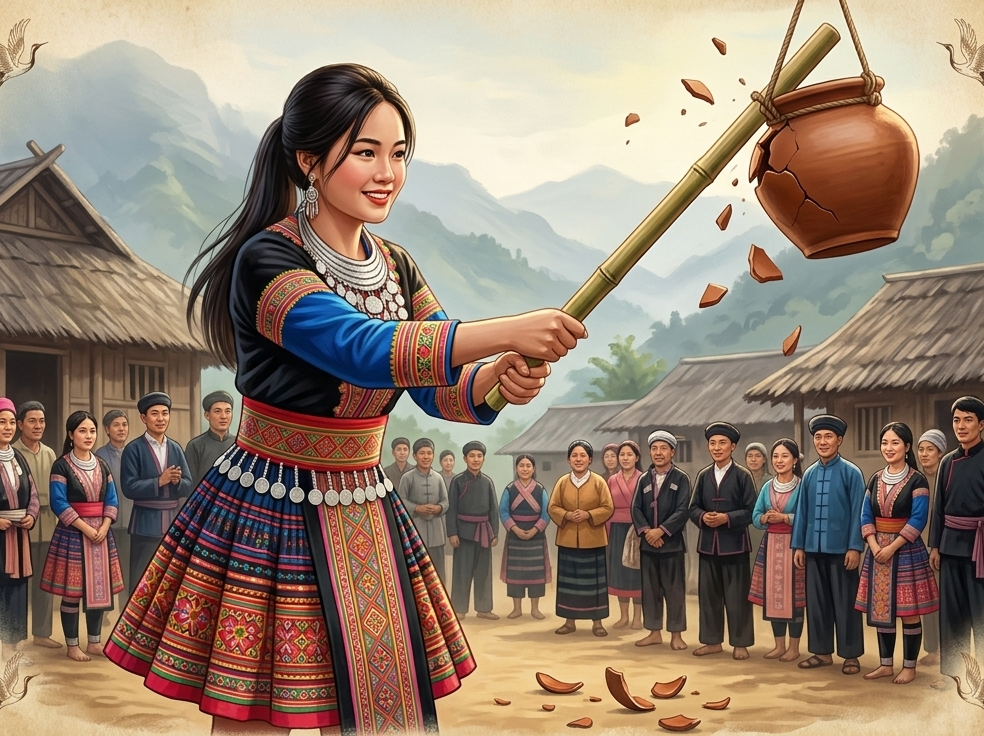
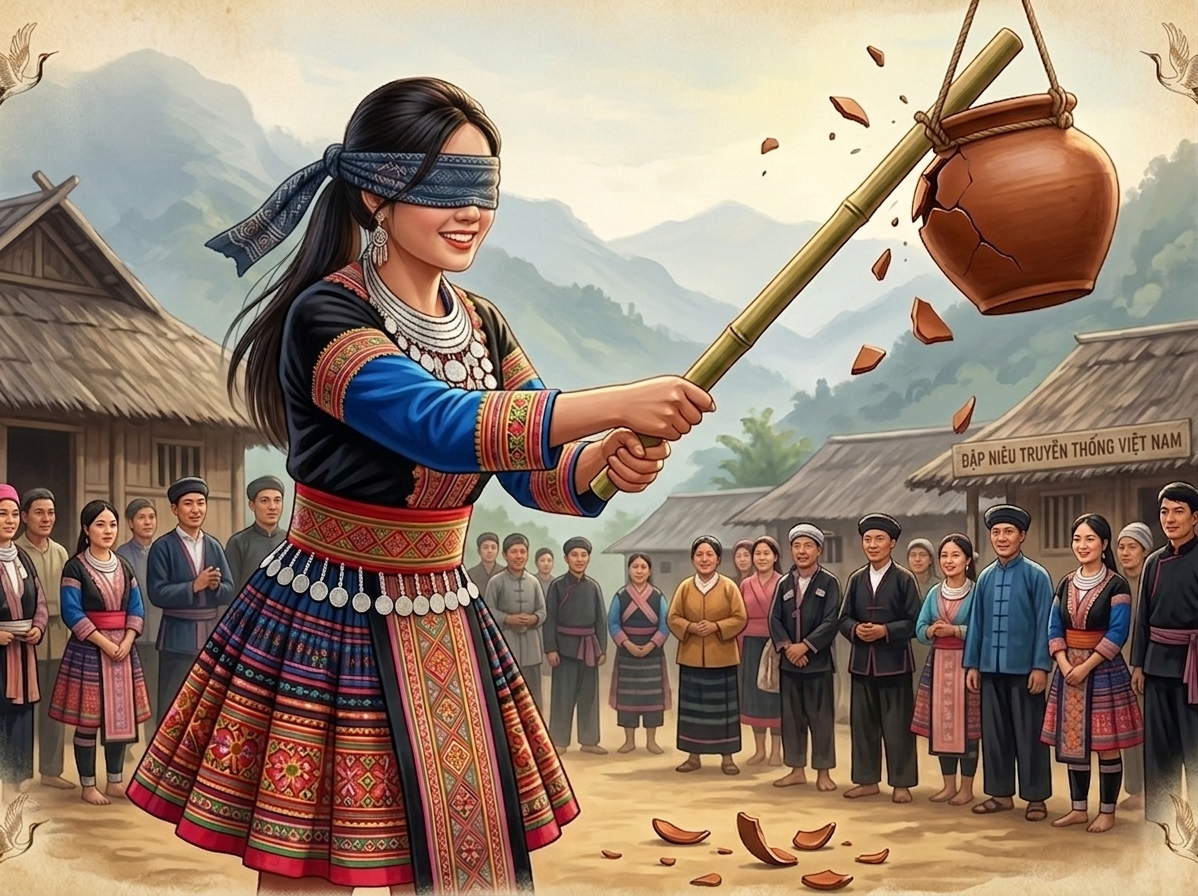
update review and images

diff --git a/index.html b/index.html
@@ -292,9 +292,9 @@
             <div class="container">
                 <div class="section-head reveal">
                     <span class="eyebrow">Cảm nhận</span>
-                    <h2 class="section-title">Người yêu mến nói gì về chúng tôi</h2>
+                    <h2 class="section-title">Ký ức và cảm nhận về trò chơi dân gian</h2>
                     <p class="section-subtitle">
-                        Những chia sẻ chân thành từ cộng đồng yêu văn hóa truyền thống Việt Nam.
+                        Tiếng sạp, tiếng cười sân đình hay giây phút thả còn — mỗi người một kỷ niệm gắn với trò chơi làng quê.
                     </p>
                 </div>
 
@@ -303,8 +303,8 @@
                     <div class="review-card reveal">
                         <div class="review-stars">★★★★★</div>
                         <p class="review-quote">
-                            "Một trang web đẹp, mộc mạc mà tinh tế. Tôi như được sống lại
-                            tuổi thơ ở làng quê khi nhìn từng tấm hình, đọc từng dòng giới thiệu."
+                            "Hồi nhỏ đi hội làng, tôi thích nhất được xem nhảy sạp: nhịp tre gõ đều,
+                            mọi người nhún nhảy sao cho khớp — vừa hồi hộp vừa vui, như cả làng cùng một nhịp đập."
                         </p>
                         <div class="review-author">
                             <div class="review-avatar">M</div>
@@ -318,8 +318,8 @@
                     <div class="review-card reveal">
                         <div class="review-stars">★★★★★</div>
                         <p class="review-quote">
-                            "Mình cho các bé học sinh xem website này, các em rất thích thú
-                            và muốn được trải nghiệm các trò chơi dân gian ngoài đời thật."
+                            "Ở trường con tôi có ngày hội thể thao dân gian; các em được chơi bắt vịt,
+                            kéo co… Tiếng reo hò không ngớt — trò chơi đơn giản mà gắn kết cả lớp."
                         </p>
                         <div class="review-author">
                             <div class="review-avatar">T</div>
@@ -333,8 +333,8 @@
                     <div class="review-card reveal">
                         <div class="review-stars">★★★★★</div>
                         <p class="review-quote">
-                            "Thiết kế nhẹ nhàng, nội dung sâu sắc. Đây thật sự là nguồn tài liệu
-                            quý cho ai đang muốn tìm hiểu về văn hóa Việt Nam."
+                            "Tết về quê ngoại, anh em cháu chắt kéo nhau ra sân đình xem đánh đu,
+                            ném còn. Không khí náo nức — giữ được những trò đó là giữ được phần hồn của làng."
                         </p>
                         <div class="review-author">
                             <div class="review-avatar">Q</div>
